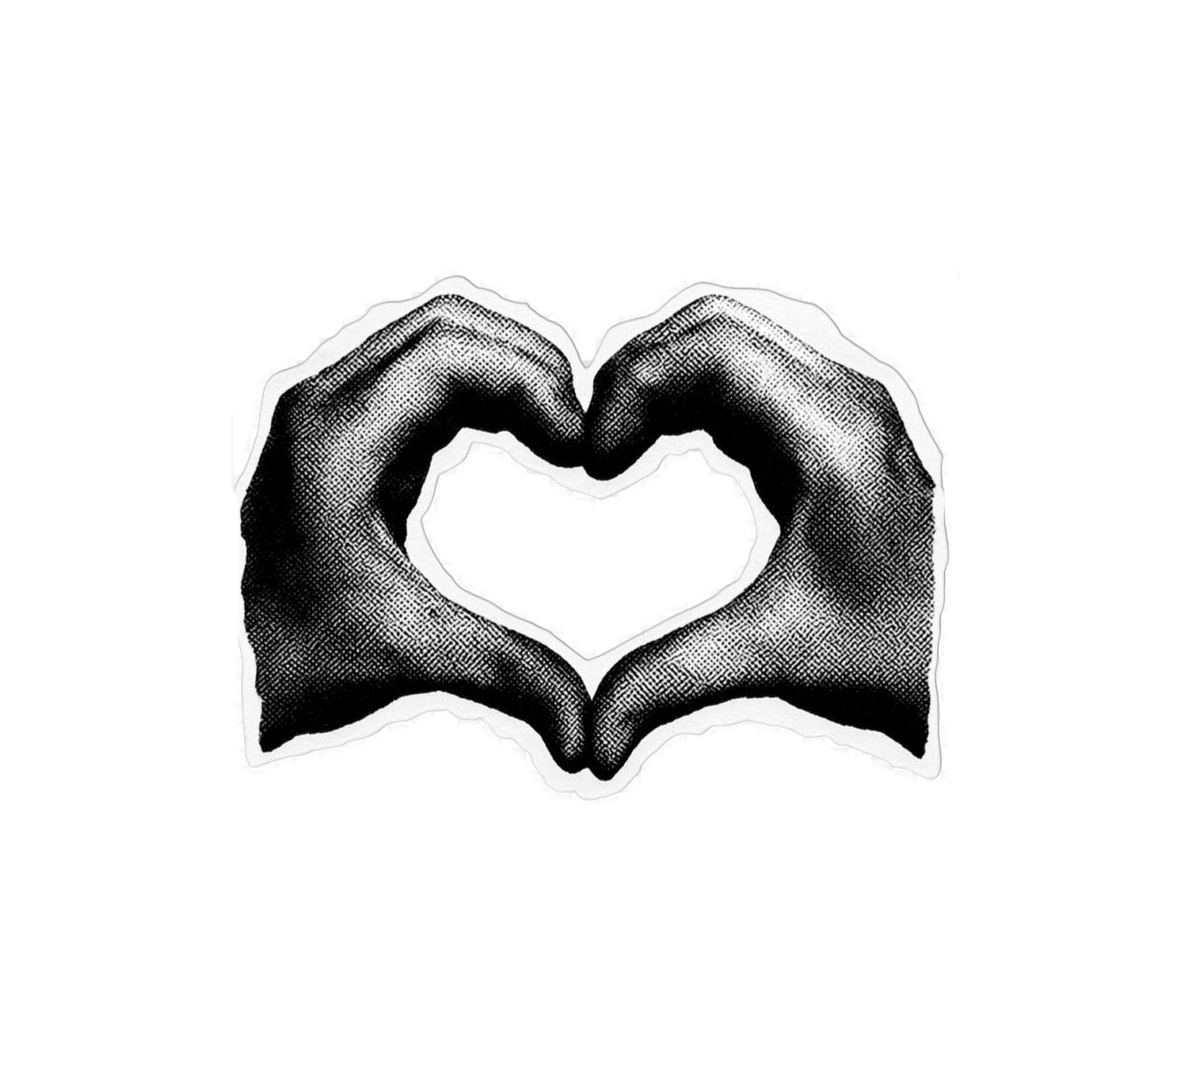
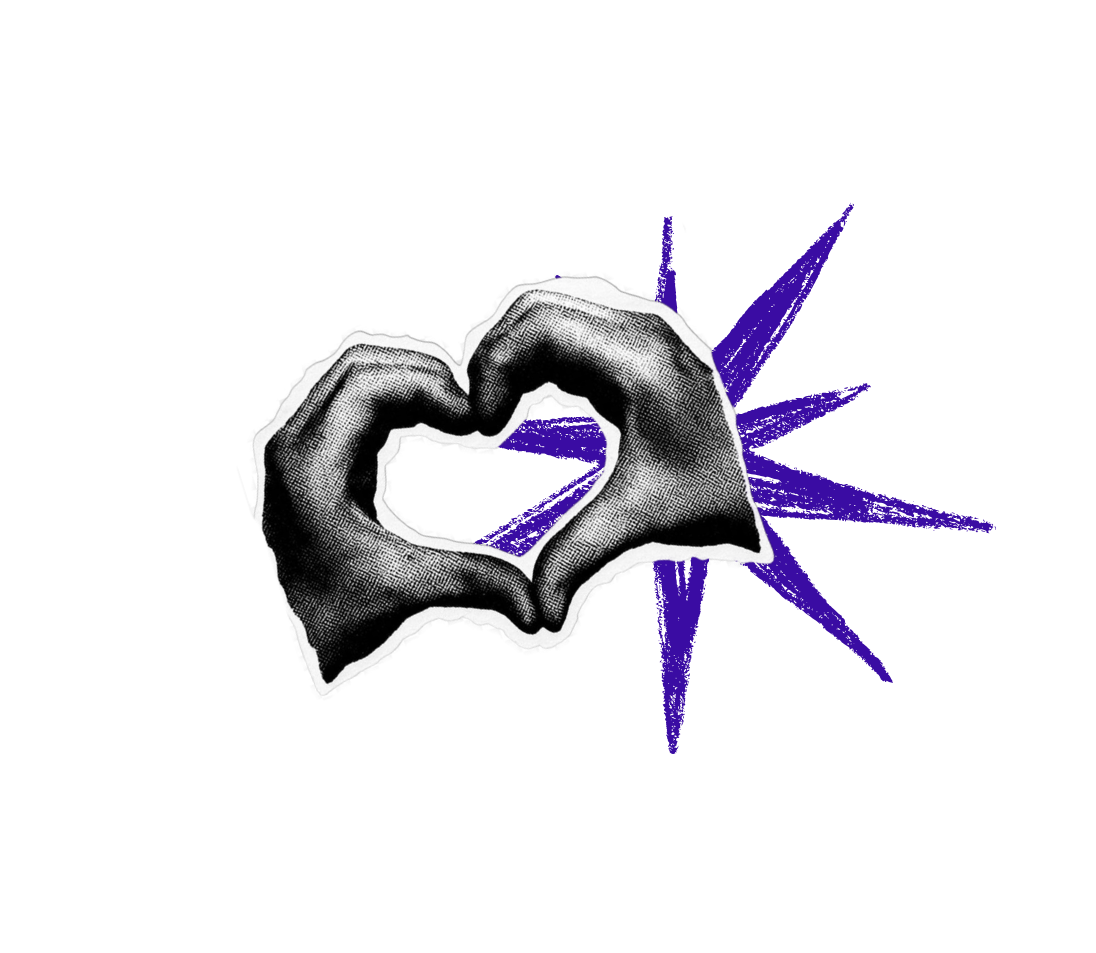
Add files via upload

Changed region(s): [[0.1861, 0.213, 0.8996, 0.7912]]

diff --git a/style.css b/style.css
@@ -304,7 +304,7 @@ INDICADORES
 
 .indicadores{
 
-padding:120px 0;
+padding:140px 0;
 
 background:var(--roxo);
 
@@ -318,25 +318,21 @@ overflow:hidden;
 
 display:grid;
 
-grid-template-columns:repeat(3,1fr);
+grid-template-columns:repeat(6,1fr);
 
-gap:24px;
+gap:22px;
 
 }
+
+/* Cards */
 
 .indicador{
 
 position:relative;
 
-min-height:260px;
+padding:45px;
 
-padding:40px;
-
-border:1px solid rgba(255,255,255,.25);
-
-border-radius:24px;
-
-background:transparent;
+min-height:240px;
 
 display:flex;
 
@@ -344,9 +340,51 @@ flex-direction:column;
 
 justify-content:space-between;
 
-transition:.35s cubic-bezier(.22,.61,.36,1);
+border:1px solid rgba(255,255,255,.18);
+
+background:transparent;
+
+transition:.35s;
 
 overflow:hidden;
+
+}
+
+/* Linhas decorativas */
+
+.indicador::before{
+
+content:"";
+
+position:absolute;
+
+top:24px;
+
+left:24px;
+
+width:55px;
+
+height:2px;
+
+background:rgba(255,255,255,.5);
+
+}
+
+.indicador::after{
+
+content:"";
+
+position:absolute;
+
+top:24px;
+
+left:24px;
+
+width:2px;
+
+height:55px;
+
+background:rgba(255,255,255,.5);
 
 }
 
@@ -354,21 +392,35 @@ overflow:hidden;
 
 transform:translateY(-8px);
 
+background:rgba(255,255,255,.04);
+
 border-color:#fff;
 
-background:rgba(255,255,255,.03);
+}
+
+/* Primeira linha */
+
+.destaque{
+
+grid-column:span 2;
 
 }
 
-/* remove as bolinhas antigas */
+.indicador:not(.destaque):not(.metade){
 
-.indicador::before{
-
-display:none;
+grid-column:span 2;
 
 }
 
-/* números */
+/* Segunda linha */
+
+.metade{
+
+grid-column:span 3;
+
+}
+
+/* Número */
 
 .indicador strong{
 
@@ -376,99 +428,45 @@ display:block;
 
 font-family:'Bricolage Grotesque',sans-serif;
 
-font-size:clamp(5rem,8vw,8rem);
+font-size:clamp(5rem,9vw,8rem);
 
 line-height:.8;
 
-letter-spacing:-.06em;
+letter-spacing:-.07em;
 
 color:#fff;
 
-margin-bottom:20px;
-
 }
 
-/* texto */
+/* Texto */
 
 .indicador span{
 
-display:block;
-
-font-size:.95rem;
+font-size:1rem;
 
 font-weight:700;
 
 line-height:1.35;
 
-letter-spacing:.08em;
+letter-spacing:.12em;
 
 text-transform:uppercase;
 
 color:#fff;
 
-max-width:220px;
+}
+
+/* Destaque do último card */
+
+.metade:last-child{
+
+background:rgba(255,255,255,.05);
 
 }
 
-/* primeiro card */
-
-.destaque{
-
-border-color:rgba(255,255,255,.45);
-
-}
-
-/* card 100% */
-
-.indicador-full{
-
-grid-column:1 / -1;
-
-min-height:180px;
-
-align-items:center;
-
-justify-content:center;
-
-text-align:center;
-
-}
-
-.indicador-full strong{
-
-font-size:clamp(7rem,12vw,10rem);
-
-margin-bottom:10px;
-
-}
-
-.indicador-full span{
-
-max-width:none;
-
-letter-spacing:.20em;
-
-}
-
-/* responsivo */
+/* Responsivo */
 
 @media(max-width:1000px){
-
-.indicadores-grid{
-
-grid-template-columns:repeat(2,1fr);
-
-}
-
-.indicador-full{
-
-grid-column:1 / -1;
-
-}
-
-}
-
-@media(max-width:700px){
 
 .indicadores-grid{
 
@@ -476,9 +474,13 @@ grid-template-columns:1fr;
 
 }
 
+.destaque,
+
+.metade,
+
 .indicador{
 
-min-height:200px;
+grid-column:auto;
 
 }
 

diff --git a/index.html b/index.html
@@ -135,13 +135,24 @@ TERRITORIAIS
 <strong>11</strong>
 
 <span>
-ENCONTROS<br>
-FORMATIVOS
+TEMAS<br>
+ESTRATÉGICOS
 </span>
 
 </div>
 
-<div class="indicador indicador-full">
+<div class="indicador metade">
+
+<strong>112H</strong>
+
+<span>
+CONTEÚDO<br>
+FORMATIVO
+</span>
+
+</div>
+
+<div class="indicador metade">
 
 <strong>100%</strong>
 